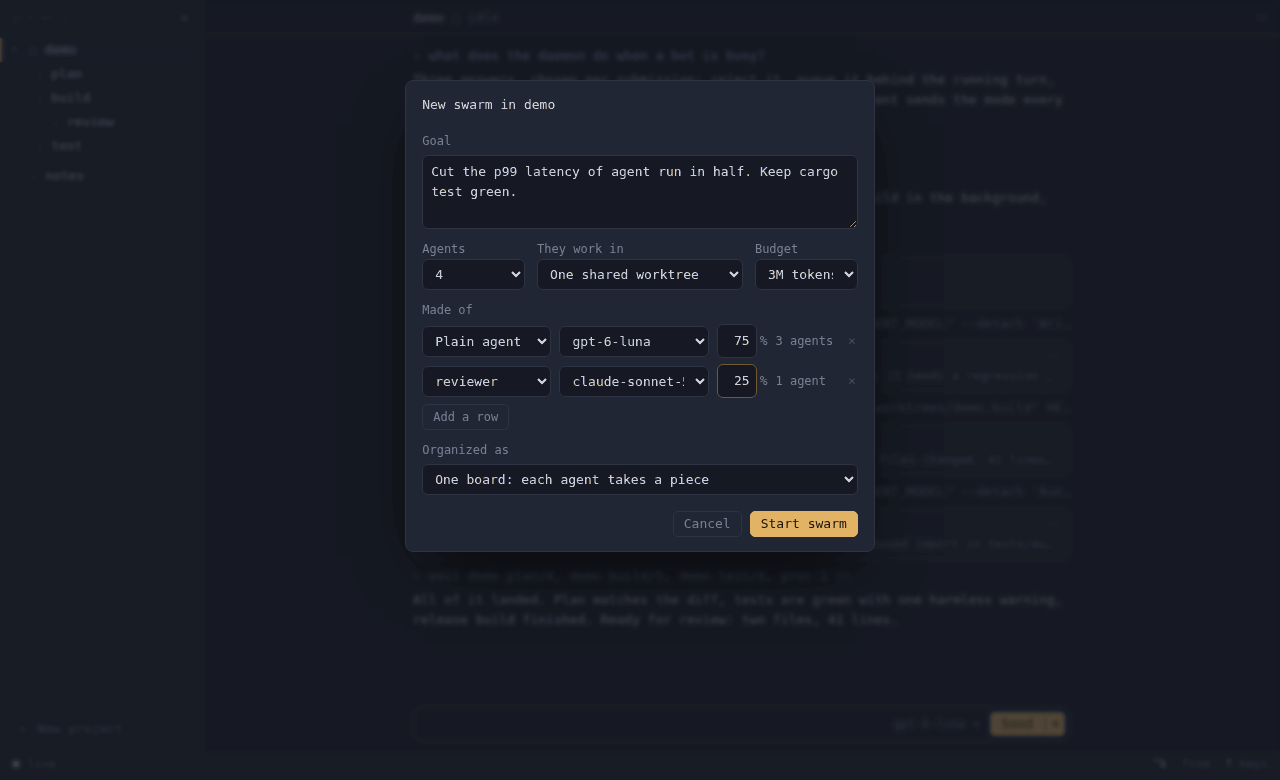
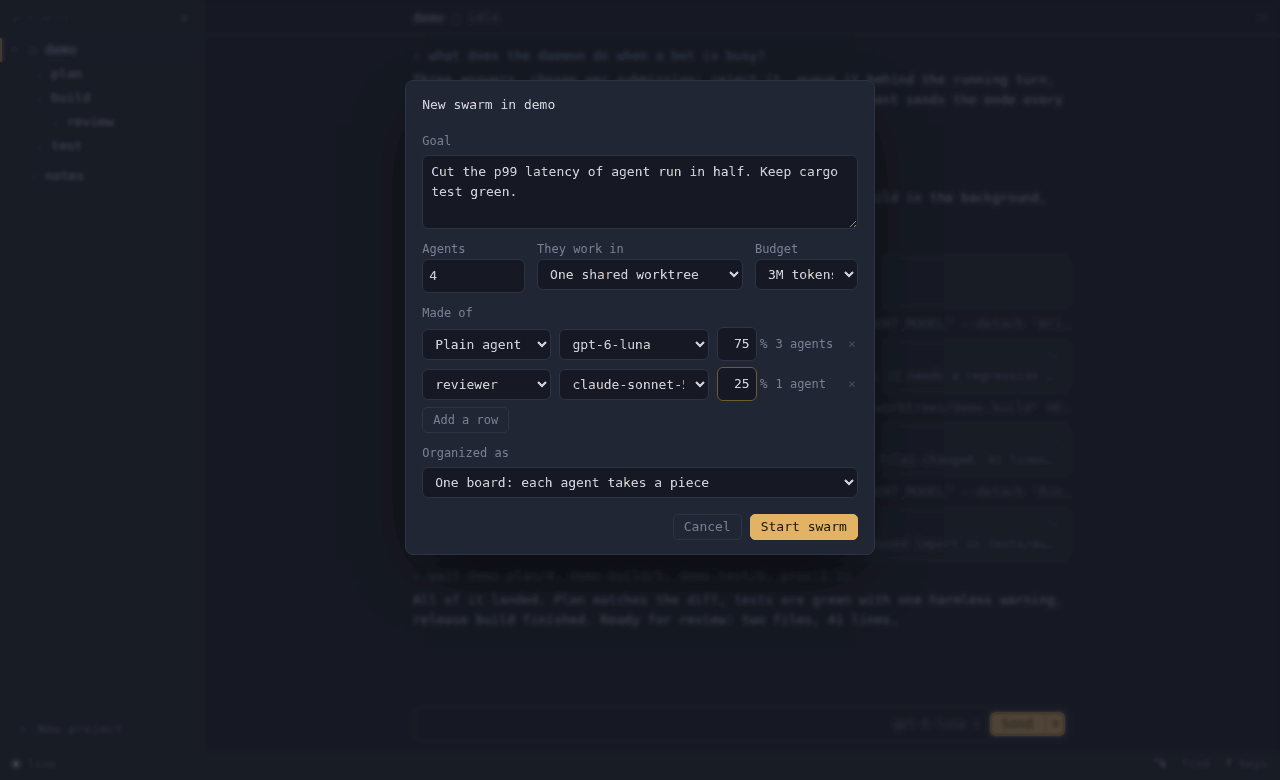
Swarm sheet: type any number of agents
The Agents field is a number box instead of a list of sizes: any whole
number from 1 to 64, the most a swarm starts with. The mix's counts follow
as it is typed, and a value that is not a count says what it takes.

Claude-Session: https://claude.ai/code/session_016xCau6n7z1SXQnjem89Cut

diff --git a/app/ui/app.js b/app/ui/app.js
@@ -1331,7 +1331,8 @@ function renderSwarm(el, sw) {
 // A goal, how many agents, what they are, where they work, and a budget they share. What they are is
 // a mix: rows of an identity (a profile the folder offers, or a plain agent), a model, and a share,
 // shown as the whole agents it makes at the size picked.
-const SWARM_SIZES = [2, 4, 6, 8, 12, 16], SWARM_BUDGETS = [[1e6, '1M tokens'], [3e6, '3M tokens'], [1e7, '10M tokens']];
+// A swarm starts with up to 64 agents, as the app's side takes; Add goes on from there.
+const MAX_AGENTS = 64, SWARM_BUDGETS = [[1e6, '1M tokens'], [3e6, '3M tokens'], [1e7, '10M tokens']];
 const MIX_ROWS = 8;
 let sheetFor = null;
 const sheet = { models: [], profiles: [], mix: [] };
@@ -1347,7 +1348,7 @@ async function openSwarmSheet(project) {
   const sel = (id, opts, on) => `<select id="${id}">${opts.map(([v, l]) => `<option value="${esc(v)}"${String(v) === String(on) ? ' selected' : ''}>${esc(l)}</option>`).join('')}</select>`;
   $('sheet').innerHTML = `<h4>New swarm in ${esc(project)}</h4>
     <label for="sw-goal">Goal</label><textarea id="sw-goal" rows="3" placeholder="What should they get done together?"></textarea>
-    <div class="row"><div><label for="sw-n">Agents</label>${sel('sw-n', SWARM_SIZES.map((n) => [n, String(n)]), 4)}</div><div class="wide"><label for="sw-where">They work in</label>${sel('sw-where', [['shared', 'One shared worktree'], ['project', 'The project folder']], 'shared')}</div><div><label for="sw-budget">Budget</label>${sel('sw-budget', SWARM_BUDGETS, 3e6)}</div></div>
+    <div class="row"><div><label for="sw-n">Agents</label><input id="sw-n" type="number" min="1" max="${MAX_AGENTS}" step="1" value="4"></div><div class="wide"><label for="sw-where">They work in</label>${sel('sw-where', [['shared', 'One shared worktree'], ['project', 'The project folder']], 'shared')}</div><div><label for="sw-budget">Budget</label>${sel('sw-budget', SWARM_BUDGETS, 3e6)}</div></div>
     <label>Made of</label><div id="sw-mix" class="mix"></div>
     <label for="sw-org">Organized as</label>${sel('sw-org', [[0, 'One board: each agent takes a piece'], [3, 'A council of 3 approves streams of work']], 0)}
     <div class="foot"><button type="button" class="sbtn" data-act="close-sheet">Cancel</button><button type="submit" class="sbtn primary" id="sw-start">Start swarm</button></div>`;
@@ -1355,6 +1356,9 @@ async function openSwarmSheet(project) {
   $('sheetwrap').classList.add('on'); S.ui.sheet = true;
   setTimeout(() => $('sw-goal').focus?.(), 0);
 }
+// Any whole number of agents typed; the counts show nothing until it is one.
+function agentCount() { const n = Number($('sw-n')?.value); return Number.isInteger(n) && n >= 1 && n <= MAX_AGENTS ? n : 0; }
+const sheetProblem = (n) => (n ? mixProblem(sheet.mix) : `Agents is a whole number from 1 to ${MAX_AGENTS}`);
 // The mix's rows, each with how many agents it makes, and what is wrong with it if anything.
 function mixProblem(mix) {
   const total = mix.reduce((a, r) => a + (Number(r.share) || 0), 0);
@@ -1364,7 +1368,7 @@ function mixProblem(mix) {
   return null;
 }
 function renderMix() {
-  const n = Number($('sw-n')?.value ?? 4), problem = mixProblem(sheet.mix);
+  const n = agentCount(), problem = sheetProblem(n);
   const counts = problem ? null : mixCounts(sheet.mix, mixRows(sheet.mix, n));
   const identities = [['', 'Plain agent'], ...sheet.profiles.map((p) => [p.name, p.name])];
   const row = (r, i) => `<div class="mixrow"><select data-mix="${i}" data-f="identity" aria-label="Identity">${identities.map(([v, l]) => `<option value="${esc(v)}"${v === r.identity ? ' selected' : ''}>${esc(l)}</option>`).join('')}</select>${modelSelectHTML(`sw-model-${i}`, sheet.models, r.model).replace('<select ', `<select data-mix="${i}" data-f="model" `)}<span class="share"><input type="number" min="1" max="100" step="1" value="${esc(r.share)}" data-mix="${i}" data-f="share" aria-label="Share in percent">%</span><span class="count${counts && !counts[i] ? ' none' : ''}">${counts ? `${counts[i]} agent${counts[i] === 1 ? '' : 's'}` : ''}</span>${sheet.mix.length > 1 ? `<button type="button" class="x" data-act="mix-remove" data-v="${i}" title="Remove this row">×</button>` : '<span class="x"></span>'}</div>`;
@@ -1394,15 +1398,15 @@ function mixChange(el) {
 function closeSheet() { if (!S.ui.sheet) return; S.ui.sheet = false; sheetFor = null; $('sheetwrap').classList.remove('on'); focusInput('main'); }
 $('sheet').addEventListener('change', (e) => { if (e.target.dataset?.mix != null) mixChange(e.target); else if (e.target.id === 'sw-n') renderMix(); });
 // A share typed updates the counts once it is a number, without redrawing the field being typed in.
-$('sheet').addEventListener('input', (e) => { if (e.target.dataset?.f !== 'share') return; mixChange(e.target); const n = Number($('sw-n').value), problem = mixProblem(sheet.mix), counts = problem ? null : mixCounts(sheet.mix, mixRows(sheet.mix, n)); $('sw-mix').querySelectorAll('.count').forEach((c, i) => { c.textContent = counts ? `${counts[i]} agent${counts[i] === 1 ? '' : 's'}` : ''; c.classList.toggle('none', !!counts && !counts[i]); }); const w = $('sw-mix').querySelector('.mixfoot span'); if (w) { w.textContent = problem ?? (counts.some((c) => !c) ? `A row makes no agent at ${n} agents` : ''); w.className = w.textContent ? 'warn' : ''; } });
+$('sheet').addEventListener('input', (e) => { if (e.target.id === 'sw-n') { renderMix(); return; } if (e.target.dataset?.f !== 'share') return; mixChange(e.target); const n = agentCount(), problem = sheetProblem(n), counts = problem ? null : mixCounts(sheet.mix, mixRows(sheet.mix, n)); $('sw-mix').querySelectorAll('.count').forEach((c, i) => { c.textContent = counts ? `${counts[i]} agent${counts[i] === 1 ? '' : 's'}` : ''; c.classList.toggle('none', !!counts && !counts[i]); }); const w = $('sw-mix').querySelector('.mixfoot span'); if (w) { w.textContent = problem ?? (counts.some((c) => !c) ? `A row makes no agent at ${n} agents` : ''); w.className = w.textContent ? 'warn' : ''; } });
 $('sheet').addEventListener('submit', async (e) => {
   e.preventDefault();
   const project = sheetFor, start = $('sw-start'); if (!project || start.disabled) return;
   start.disabled = true; start.textContent = 'Starting…';
   try {
-    const problem = mixProblem(sheet.mix); if (problem) throw new Error(problem);
+    const n = agentCount(), problem = sheetProblem(n); if (problem) throw new Error(problem);
     const mix = sheet.mix.map((r) => ({ identity: r.identity, model: r.model, share: r.share }));
-    await createSwarm(project, { goal: $('sw-goal').value, n: Number($('sw-n').value), mix, shared: $('sw-where').value === 'shared', budget: Number($('sw-budget').value), council: Number($('sw-org').value) });
+    await createSwarm(project, { goal: $('sw-goal').value, n, mix, shared: $('sw-where').value === 'shared', budget: Number($('sw-budget').value), council: Number($('sw-org').value) });
     closeSheet();
   } catch (err) { toast(String(err?.message ?? err), 6000); start.disabled = false; start.textContent = 'Start swarm'; }
 });

diff --git a/app/ui/app.css b/app/ui/app.css
@@ -281,3 +281,4 @@ form.newproj select{width:100%;height:24px;margin-top:4px;background:var(--t-bg)
   .glyph,.cursor,.keybar .dot{animation:none!important}
   *{transition:none!important}
 }
+.sheet #sw-n{text-align:left}

diff --git a/docs/APP.md b/docs/APP.md
@@ -404,7 +404,7 @@ daemon learns nothing about projects; everything here is client work.
   linked worktree shows its branch after its name in the head, read once
   from the worktree's files when the head is first drawn.
 - **Swarms.** Also the app's opinion; the daemon learns nothing new. A
-  project's ⋯ menu has **New swarm**: a goal, 2 to 16 agents, a mix, where
+  project's ⋯ menu has **New swarm**: a goal, any number of agents up to 64 (typed), a mix, where
   they work (one worktree they share, `~/.agent/worktrees/PROJECT.NAME` on
   `agent/PROJECT.NAME` with the folder's `.agents/setup` run in it, or the
   project folder), and a token budget split evenly among them. A goal is
